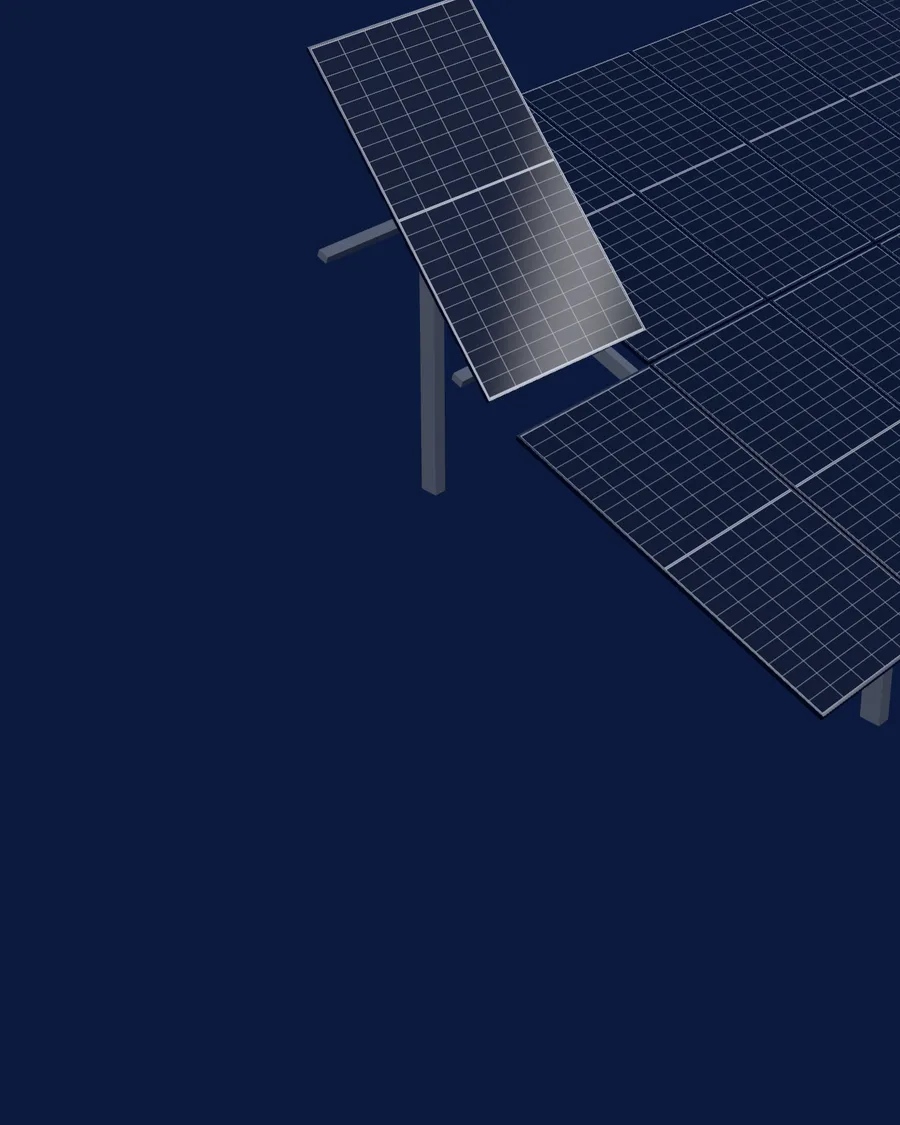
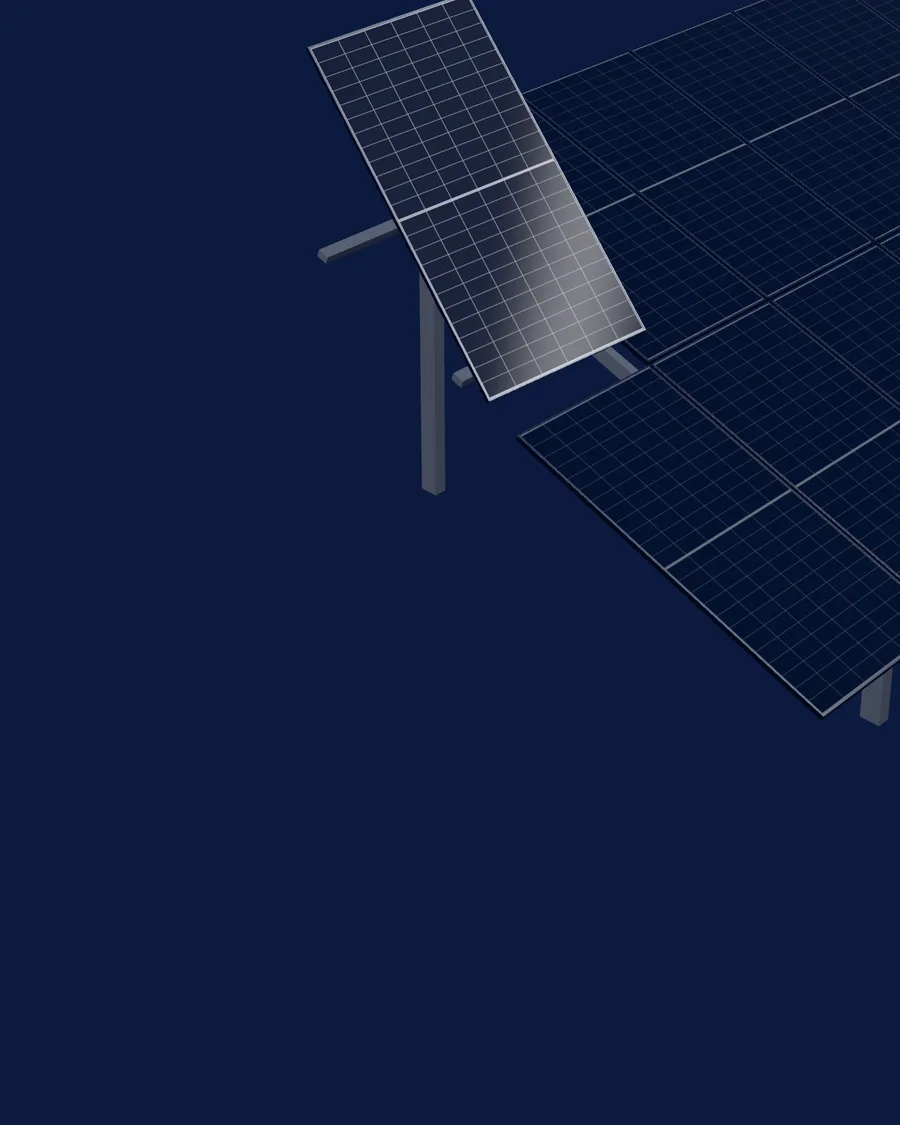
Einstieg schneller: Reihe als eigene Instanzen mit leichtem Material
Messung (Software-Rendering, 1440 x 900): Mit der Reihe aus den Anlageninstanzen liefen
alle 672 Module schon ab dem Einstieg durch den Vertex-Shader, Einstieg und Zelle wurden
dadurch deutlich langsamer.

- Anlage bleibt wie vorher bis zum Aufbau verborgen. Die Reihe im Einstieg hat eigene
  Instanzen (nur der Tisch des Hauptmoduls) und verschwindet, bevor die Kamera in die
  Zelle taucht; dort ist nur noch das Hauptmodul im Bild.
- Leichtes Zellmaterial für die Reihe: gleiches Zellbild mit Busbars und Querverbindern,
  unbeleuchtet, Glasreflexion als Spiegelung der Umgebung (wandert mit dem Reflex).
  Rahmen bleiben metallisch beleuchtet. Volles Zellmaterial unverändert (Shadertext
  geprüft), Hilfsfunktionen gemeinsam genutzt.
- Nebel im Einstieg etwas kürzer, das Tischende verläuft ins Navy
- Ergebnis je Bild gemittelt über drei Läufe: Einstieg 175 statt 108 ms, Zelle gleich,
  Schlussbild rund 10 % schneller als vor den Änderungen
- Standbilder und Social-Media-Bild neu gerendert, README ergänzt

Claude-Session: https://claude.ai/code/session_01VCezs9hLNo3Brje2m8trxj

Changed region(s): [[0.5911, 0.0, 1.0, 0.6222]]

diff --git a/src/scripts/story/cellMaterial.js b/src/scripts/story/cellMaterial.js
@@ -38,17 +38,8 @@ export function cellCenterMM(col, row) {
   return new THREE.Vector2(x, y);
 }
 
-const glslPattern = /* glsl */ `
-uniform vec2 uModuleSize;
-uniform float uTime;
-uniform float uFlow;
-uniform float uFingerFlow;
-uniform vec3 uCellColor;
-uniform vec3 uBackColor;
-uniform vec3 uMetalColor;
-uniform vec3 uPulseColor;
-varying vec2 vMM;
-
+// Gefilterte Linien, Kanten und Zufallswert je Zelle (gemeinsam für beide Materialvarianten)
+const glslHelpers = /* glsl */ `
 float ip3PulseInt(float x, float w) {
   return floor(x) * w + min(fract(x), w);
 }
@@ -76,7 +67,20 @@ float ip3Hash(vec2 p) {
   return fract(p.x * p.y);
 }
 
-struct Ip3Cell {
+`;
+
+const glslPattern = /* glsl */ `
+uniform vec2 uModuleSize;
+uniform float uTime;
+uniform float uFlow;
+uniform float uFingerFlow;
+uniform vec3 uCellColor;
+uniform vec3 uBackColor;
+uniform vec3 uMetalColor;
+uniform vec3 uPulseColor;
+varying vec2 vMM;
+
+${glslHelpers}struct Ip3Cell {
   float cell;     // Zellfläche
   float metal;    // Finger, Busbars, Querverbinder
   float bus;      // nur Busbars
@@ -180,6 +184,84 @@ Ip3Cell ip3Pattern(vec2 mm) {
   return r;
 }
 `;
+
+// Leichte Variante: Zellen, Zwischenräume, Busbars und Querverbinder; ohne Finger, Mikrostruktur
+// und Energiefluss. Ergebnis: x = Zellfläche, y = Metall, z = Helligkeitsvariation je Zelle
+const glslPatternLite = /* glsl */ `
+uniform vec3 uCellColor;
+uniform vec3 uBackColor;
+uniform vec3 uMetalColor;
+varying vec2 vMM;
+${glslHelpers}
+vec3 ip3PatternLite(vec2 mm) {
+  vec2 fw = max(fwidth(mm), vec2(1e-4));
+  float pitchX = ${(M.cellW + M.gapX).toFixed(4)};
+  float pitchY = ${(M.cellH + M.gapY).toFixed(4)};
+  float cellsW = ${cellsW.toFixed(4)};
+  float halfH = ${halfH.toFixed(4)};
+  float midY = ${(marginY + halfH + M.midGap / 2).toFixed(4)};
+  float lx = mm.x - ${marginX.toFixed(4)};
+  float insideX = ip3Box(0.0, cellsW, lx, fw.x);
+  float gapX = ip3Lines(lx, pitchX, ${M.gapX.toFixed(3)}, ${M.cellW.toFixed(3)}, fw.x);
+  float upper = step(midY, mm.y);
+  float ly = mm.y - mix(${marginY.toFixed(4)}, ${(marginY + halfH + M.midGap).toFixed(4)}, upper);
+  float insideY = ip3Box(0.0, halfH, ly, fw.y);
+  float gapY = ip3Lines(ly, pitchY, ${M.gapY.toFixed(3)}, ${M.cellH.toFixed(3)}, fw.y);
+  float cell = insideX * insideY * (1.0 - gapX) * (1.0 - gapY);
+  cell = mix(cell, 1.0, smoothstep(5.0, 40.0, max(fw.x, fw.y)) * 0.55 * insideX * insideY);
+  float bbPitch = ${(M.cellW / M.busbars).toFixed(4)};
+  float bus = ip3Lines(mod(lx, pitchX), bbPitch, 0.42, bbPitch * 0.5 - 0.21, fw.x);
+  bus *= insideX * (1.0 - gapX) * ip3Box(-7.0, halfH + 7.0, ly, fw.y);
+  float ribbon = ip3Box(${(marginY - 7.4).toFixed(3)}, ${(marginY - 2.6).toFixed(3)}, mm.y, fw.y);
+  ribbon += ip3Box(midY - 2.6, midY + 2.6, mm.y, fw.y);
+  ribbon += ip3Box(${(M.h - marginY + 2.6).toFixed(3)}, ${(M.h - marginY + 7.4).toFixed(3)}, mm.y, fw.y);
+  ribbon *= ip3Box(-2.0, cellsW + 2.0, lx, fw.x);
+  vec2 cid = vec2(floor(lx / pitchX), floor(ly / pitchY) + upper * 20.0);
+  return vec3(cell, clamp(max(bus, ribbon), 0.0, 1.0), (ip3Hash(cid) - 0.5) * 0.12);
+}
+`;
+
+/**
+ * Leichtes Vorderseiten-Material für Module, die nur aus einiger Entfernung zu sehen sind (Reihe
+ * im Einstieg): unbeleuchtet, Zellbild ohne Feinheiten, Glasreflexion als Spiegelung der Umgebung
+ * (envMap, Drehung wie scene.environmentRotation setzen). Rechnet je Pixel nur einen Bruchteil.
+ */
+export function createCellMaterialLite(envMap) {
+  const mat = new THREE.MeshBasicMaterial({ color: 0xffffff, envMap, combine: THREE.AddOperation, reflectivity: 0.32 });
+  // unbeleuchtet: Rückseitenfolie und Metall dunkler als im beleuchteten Material
+  const uniforms = {
+    uModuleSize: { value: new THREE.Vector2(M.w, M.h) },
+    uCellColor: { value: new THREE.Color('#0d1730') },
+    uBackColor: { value: new THREE.Color('#737885') },
+    uMetalColor: { value: new THREE.Color('#7b808a') },
+  };
+  mat.onBeforeCompile = (shader) => {
+    Object.assign(shader.uniforms, uniforms);
+    shader.vertexShader = shader.vertexShader
+      .replace('#include <common>', '#include <common>\nuniform vec2 uModuleSize;\nvarying vec2 vMM;')
+      .replace('#include <uv_vertex>', '#include <uv_vertex>\nvMM = uv * uModuleSize;');
+    shader.fragmentShader = shader.fragmentShader
+      .replace('#include <common>', '#include <common>\n' + glslPatternLite)
+      .replace(
+        '#include <color_fragment>',
+        /* glsl */ `#include <color_fragment>
+        vec3 ip3 = ip3PatternLite(vMM);
+        diffuseColor.rgb = mix(mix(uBackColor, uCellColor * (1.0 + ip3.z), ip3.x), uMetalColor, ip3.y);`
+      )
+      .replace(
+        '#include <roughnessmap_fragment>',
+        /* glsl */ `#include <roughnessmap_fragment>
+        roughnessFactor = mix(mix(0.62, 0.22, ip3.x), 0.2, ip3.y);`
+      )
+      .replace(
+        '#include <metalnessmap_fragment>',
+        /* glsl */ `#include <metalnessmap_fragment>
+        metalnessFactor = mix(0.0, 0.92, ip3.y);`
+      );
+  };
+  mat.customProgramCacheKey = () => 'ip3-cell-lite-v1';
+  return mat;
+}
 
 /**
  * Erzeugt das Vorderseiten-Material. Basis ist MeshPhysicalMaterial,

diff --git a/src/scripts/story/scene.js b/src/scripts/story/scene.js
@@ -1,7 +1,7 @@
 // Szene der Startseiten-Inszenierung: vom einzelnen PV-Modul über die Zelle
 // zum Energiesystem aus PV-Generator, Batteriespeicher und Netzanschluss.
 import * as THREE from 'three';
-import { createCellMaterial, cellCenterMM, MODULE } from './cellMaterial.js';
+import { createCellMaterial, createCellMaterialLite, cellCenterMM, MODULE } from './cellMaterial.js';
 import { createModuleGeometry, createModuleMaterials, GLASS_Z } from './module.js';
 import { createLayout, createPlant } from './plant.js';
 import { createPhotons } from './photons.js';
@@ -110,8 +110,16 @@ export function createStoryScene(canvas, quality) {
   const heroGeo = createModuleGeometry({ detail: true });
   const liteGeo = createModuleGeometry({ detail: false });
 
-  const plant = createPlant({ layout, moduleGeometry: liteGeo, moduleMaterials: materials, heroIndex, quality });
+  // Reihe im Einstieg mit leichtem Zellmaterial (unbeleuchtet, Spiegelung der Umgebung); die Rahmen
+  // haben wenig Bildfläche und bleiben metallisch beleuchtet
+  const rowMaterials = [
+    createCellMaterialLite(scene.environment),
+    new THREE.MeshStandardMaterial({ color: '#c3c8d0', metalness: 1.0, roughness: 0.3 }),
+    materials[2],
+  ];
+  const plant = createPlant({ layout, moduleGeometry: liteGeo, moduleMaterials: materials, rowMaterials, heroIndex, quality });
   scene.add(plant.group);
+  scene.add(plant.reihe);
 
   const heroSlot = layout.modules[heroIndex].position.clone();
   const hero = new THREE.Group();
@@ -279,12 +287,13 @@ export function createStoryScene(canvas, quality) {
     // die Umgebung langsam hin und her, der helle Streifen wandert als Sonnenreflex über die Reihe.
     scene.environmentIntensity = 1 - 0.58 * range(p, 0.7, 0.86);
     scene.environmentRotation.y = Math.sin(time * 0.32) * 0.26 * (1 - range(p, 0.04, 0.12));
+    rowMaterials[0].envMapRotation.copy(scene.environmentRotation);
 
     // Nebel skaliert mit dem Kameraabstand: Tiefe ohne Verlauf im Bild. Im Einstieg kurz,
     // die Reihe verläuft hinter dem Hauptmodul ins Navy.
     const nah = 1 - range(p, 0.27, 0.42);
     scene.fog.near = THREE.MathUtils.lerp(dist * 1.6 + 40, dist, nah);
-    scene.fog.far = THREE.MathUtils.lerp(dist * 5.5 + 260, dist + 24, nah);
+    scene.fog.far = THREE.MathUtils.lerp(dist * 5.5 + 260, dist + 17, nah);
 
     // Sonne folgt dem Bildausschnitt, damit Schatten scharf bleiben
     const sunTarget = b > 0.01 ? plantCenter : moduleCenter;
@@ -300,11 +309,12 @@ export function createStoryScene(canvas, quality) {
     photons.uniforms.uPixelRatio.value = renderer.getPixelRatio();
     photons.uniforms.uScale.value = height / 900;
 
-    // Aufbau der Anlage; die Reihe des Hauptmoduls steht von Anfang an. Schatten erst mit dem
-    // Aufbau (im Einstieg gibt es noch keinen Boden, der sie aufnimmt)
+    // Reihe des Hauptmoduls im Einstieg; verschwindet, bevor die Kamera in die Zelle taucht
+    // (dann ist nur noch das Hauptmodul im Bild). Danach baut sich die Anlage um das Modul auf.
+    plant.reihe.visible = p < 0.41;
     const build = range(p, 0.655, 0.865);
-    plant.setBuild(build, { value: true, changed: false }, 1);
-    plant.modules.castShadow = plant.tables.castShadow = quality.shadows && build > 0;
+    plant.group.visible = build > 0.0005;
+    plant.setBuild(build, { value: true, changed: false });
     plant.setStage({
       grid: range(p, 0.69, 0.8),
       inverters: range(p, 0.775, 0.85),
@@ -361,6 +371,7 @@ export function createStoryScene(canvas, quality) {
   // Shader vorab kompilieren, damit der erste Scroll nicht ruckelt
   function warmup() {
     plant.group.visible = true;
+    plant.reihe.visible = true;
     photons.group.visible = true;
     renderer.compile(scene, camera);
   }
@@ -377,6 +388,7 @@ export function createStoryScene(canvas, quality) {
     const old = scene.environment;
     const strip = { ...st, pos: Array.isArray(st.pos) ? new THREE.Vector3(...st.pos) : st.pos };
     scene.environment = buildEnvironment(renderer, strip);
+    rowMaterials[0].envMap = scene.environment;
     old && old.dispose();
   }
 

diff --git a/src/scripts/story/plant.js b/src/scripts/story/plant.js
@@ -566,7 +566,7 @@ function groundGrid() {
 }
 
 /* ---------- Gesamtanlage ---------- */
-export function createPlant({ layout, moduleGeometry, moduleMaterials, heroIndex, quality }) {
+export function createPlant({ layout, moduleGeometry, moduleMaterials, rowMaterials = moduleMaterials, heroIndex, quality }) {
   const L = layout;
   const mats = modelMaterials();
   const group = new THREE.Group();
@@ -841,18 +841,13 @@ export function createPlant({ layout, moduleGeometry, moduleMaterials, heroIndex
   const clamp01 = (x) => Math.min(1, Math.max(0, x));
   const tableQuat = new THREE.Quaternion();
 
-  // Reihe des Hauptmoduls: steht schon im Einstieg, der Aufbau wächst später um sie herum
-  const heroRow = L.modules[heroIndex].r;
   let lastBuild = -1;
-  let lastRow = -1;
-  function setBuild(build, hideHero, row = 0) {
-    if (Math.abs(build - lastBuild) < 1e-5 && Math.abs(row - lastRow) < 1e-5 && !hideHero.changed) return;
+  function setBuild(build, hideHero) {
+    if (Math.abs(build - lastBuild) < 1e-5 && !hideHero.changed) return;
     lastBuild = build;
-    lastRow = row;
     for (let i = 0; i < count; i++) {
       const md = L.modules[i];
       let k = i === heroIndex ? 0 : easeOut(clamp01((build - delays[i]) / 0.14));
-      if (md.r === heroRow && i !== heroIndex) k = Math.max(k, row);
       if (i === heroIndex && hideHero.value) k = 0;
       s.setScalar(Math.max(k, 1e-4));
       p.copy(md.position);
@@ -862,8 +857,7 @@ export function createPlant({ layout, moduleGeometry, moduleMaterials, heroIndex
     }
     modules.instanceMatrix.needsUpdate = true;
     L.tables.forEach((t, i) => {
-      let k = easeOut(clamp01((build - tableDelays[i] + 0.04) / 0.16));
-      if (t.r === heroRow) k = Math.max(k, row);
+      const k = easeOut(clamp01((build - tableDelays[i] + 0.04) / 0.16));
       // noch nicht begonnene Tische ganz ausblenden (sonst liegen sie flach auf dem Boden)
       const xz = k > 0.001 ? 1 : 1e-4;
       s.set(xz, Math.max(k, 1e-4), xz);
@@ -890,6 +884,22 @@ export function createPlant({ layout, moduleGeometry, moduleMaterials, heroIndex
     dach.instanceMatrix.needsUpdate = true;
     dach.visible = k > 0.45;
   }
+
+  // Reihe des Hauptmoduls für den Einstieg: eigene kleine Instanzen, damit die Anlage bis zum
+  // Aufbau verborgen bleibt und nichts kostet. Nur der Tisch des Hauptmoduls, sein Ende verläuft im
+  // Nebel. Keine Schatten (im Einstieg gibt es keinen Boden).
+  const heroModul = L.modules[heroIndex];
+  const reiheModule = L.modules.filter((md, i) => i !== heroIndex && md.r === heroModul.r && md.t === heroModul.t);
+  const reiheTische = L.tables.filter((t) => t.r === heroModul.r && t.t === heroModul.t);
+  const reihe = new THREE.Group();
+  reihe.name = 'reihe';
+  const eins = new THREE.Vector3(1, 1, 1);
+  const reiheM = new THREE.InstancedMesh(moduleGeometry, rowMaterials, reiheModule.length);
+  reiheModule.forEach((md, i) => reiheM.setMatrixAt(i, m4.compose(md.position, q, eins)));
+  const reiheT = new THREE.InstancedMesh(tableMesh.geometry, mats.steel, reiheTische.length);
+  reiheTische.forEach((t, i) => reiheT.setMatrixAt(i, m4.compose(p.set(t.center.x, 0, t.center.z), tableQuat, eins)));
+  reiheM.frustumCulled = reiheT.frustumCulled = false;
+  reihe.add(reiheM, reiheT);
 
   const grow = (obj, k) => {
     obj.scale.y = Math.max(easeOut(clamp01(k)), 1e-4);
@@ -932,6 +942,7 @@ export function createPlant({ layout, moduleGeometry, moduleMaterials, heroIndex
     site,
     setBuild,
     setStage,
+    reihe,
     heroPosition: heroPos.clone(),
   };
 }

diff --git a/README.md b/README.md
@@ -85,7 +85,7 @@ Die Seite `/unsere-leistungen/monitoring` folgt dem Text von ip³. Die Beispiela
 
 ## Inszenierung auf der Startseite
 
-Ablauf: Im Einstieg steht das Hauptmodul angehoben am Westende seiner Reihe, die Reihe verläuft nach hinten ins Navy, ein Reflex wandert über das Glas, rechts oben liegt der rote Sonnenpunkt des Zeichens 3 (nur ab Tabletbreite, blendet beim ersten Scrollen aus). Das Modul setzt sich in die Reihe, die Kamera taucht in die Zelle, zoomt heraus, die Anlage baut sich um die Reihe auf. Im Schritt 03 kommen südlich des Zauns ein Einfamilienhaus (PV, Heimspeicher, Wallbox) und eine Gewerbehalle (PV-Dach, Speicherschränke, Ladesäulen) hinzu, versorgt über eine Ortsnetzstation am selben 20-kV-Netz. Am Handy zeigt das Schlussbild den Ortsrand unter dem Textfeld, die Labels der Anlage blenden dort zum Schluss aus. Kamerawerte stehen als Schlüsselbilder in `src/scripts/story/index.js`; `scripts/tune-story.mjs` und `scripts/shot-story.mjs` rendern Varianten und Einzelbilder.
+Ablauf: Im Einstieg steht das Hauptmodul angehoben am Westende seiner Reihe, die Reihe verläuft nach hinten ins Navy, ein Reflex wandert über das Glas, rechts oben liegt der rote Sonnenpunkt des Zeichens 3 (nur ab Tabletbreite, blendet beim ersten Scrollen aus). Das Modul setzt sich in die Reihe, die Kamera taucht in die Zelle, zoomt heraus, die Anlage baut sich um die Reihe auf. Im Schritt 03 kommen südlich des Zauns ein Einfamilienhaus (PV, Heimspeicher, Wallbox) und eine Gewerbehalle (PV-Dach, Speicherschränke, Ladesäulen) hinzu, versorgt über eine Ortsnetzstation am selben 20-kV-Netz. Am Handy zeigt das Schlussbild den Ortsrand unter dem Textfeld, die Labels der Anlage blenden dort zum Schluss aus. Kamerawerte stehen als Schlüsselbilder in `src/scripts/story/index.js`; `scripts/tune-story.mjs` und `scripts/shot-story.mjs` rendern Varianten und Einzelbilder. Leistung: Die Anlage bleibt bis zum Aufbau verborgen, die Reihe im Einstieg hat eigene Instanzen (nur der Tisch des Hauptmoduls) mit einem leichten, unbeleuchteten Zellmaterial und verschwindet, bevor die Kamera in die Zelle taucht.
 
 Die Szene wird erst geladen, wenn WebGL verfügbar ist, und rendert nur, solange sie im Bild ist. Bei `prefers-reduced-motion`, fehlendem WebGL oder schwacher Hardware zeigt die Seite eine statische Bildfolge mit denselben Texten. Ist die Darstellung zu langsam, bleibt das letzte Bild stehen und der Wechsel auf die statische Fassung geschieht erst, wenn die Inszenierung aus dem Bild gescrollt ist; die Leseposition bleibt dabei erhalten. Zum Testen: `/?static`.
 
